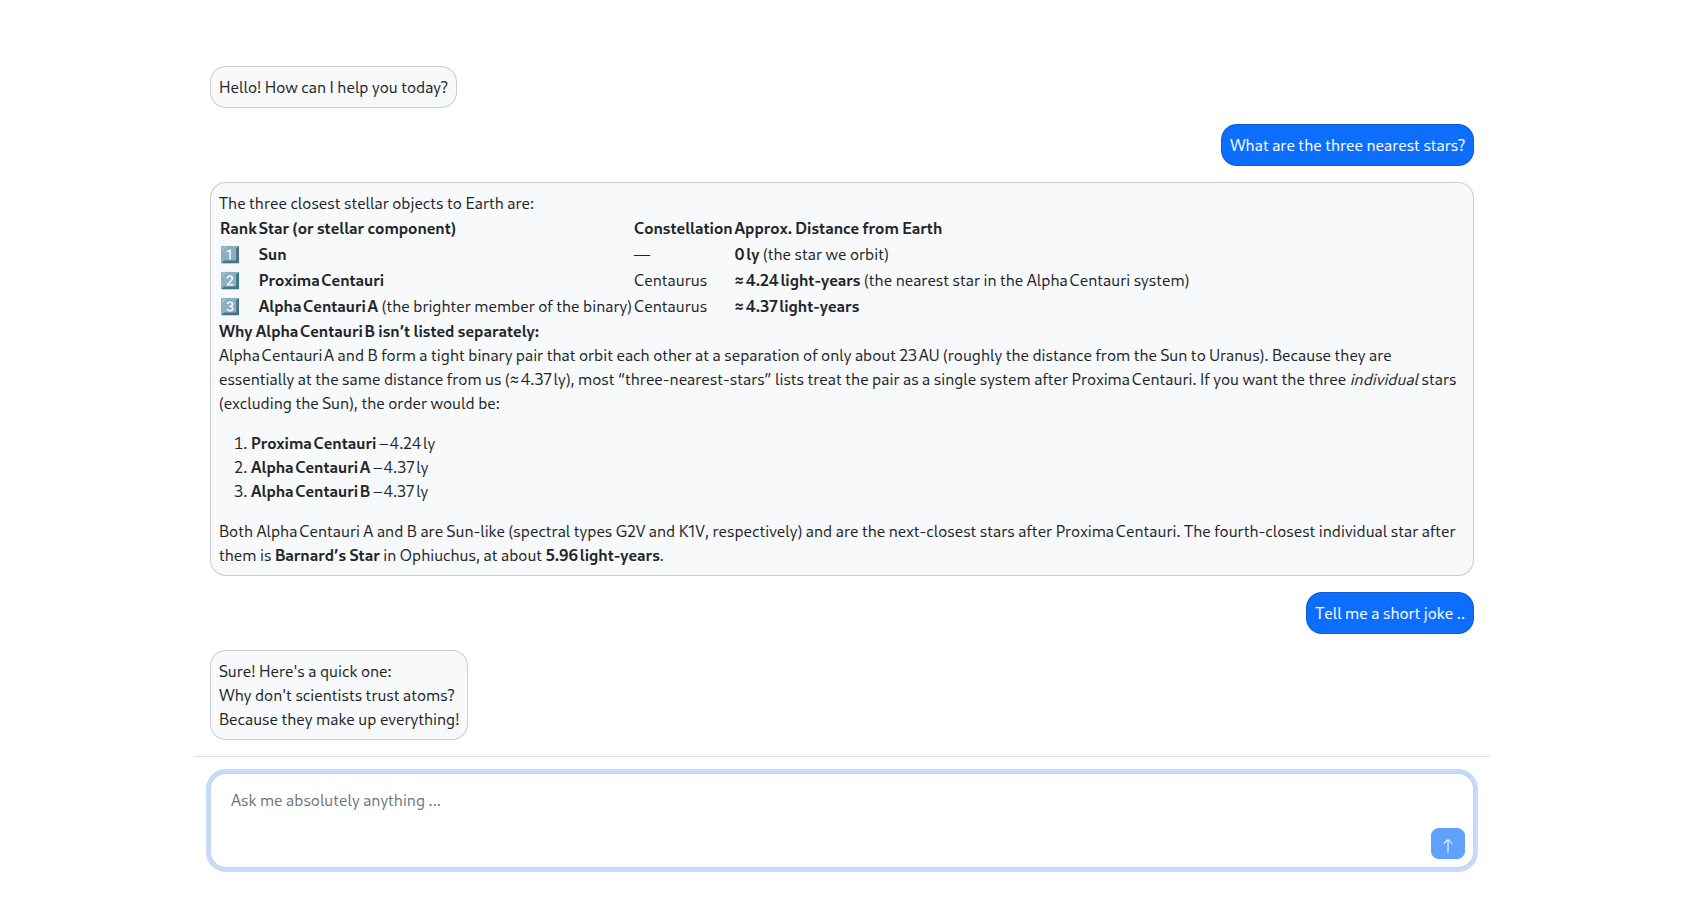
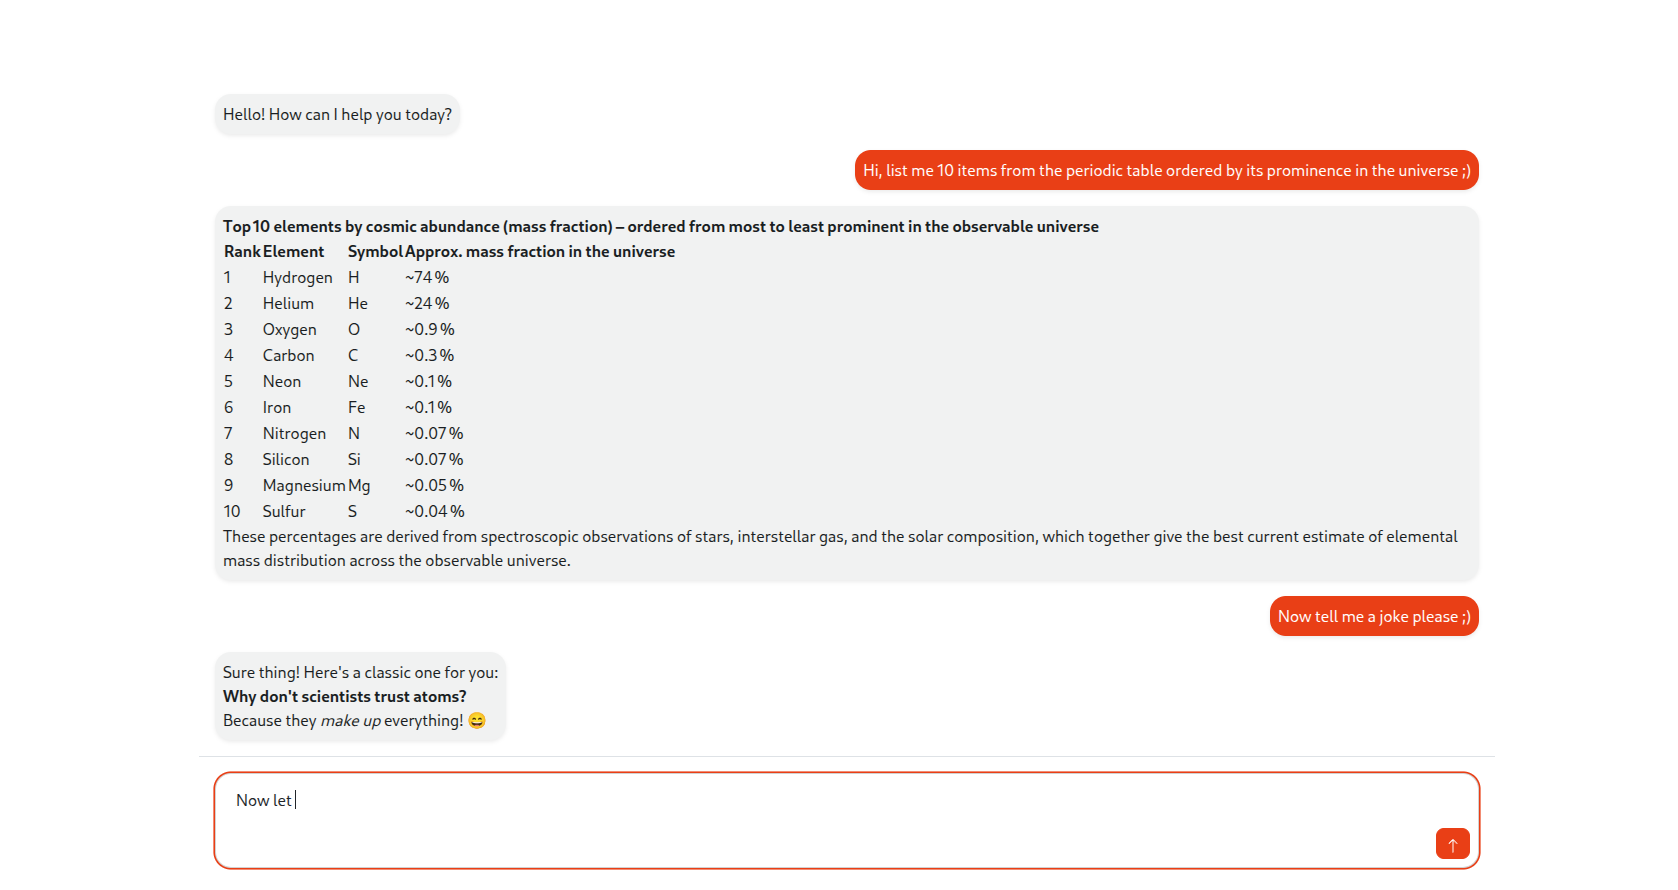
some additions to styles.css

diff --git a/llm_chat_client/src/styles.css b/llm_chat_client/src/styles.css
@@ -1,12 +1,28 @@
 /* You can add global styles to this file, and also import other style files */
+:root {
+    --bs-primary: #e93f16; /* Custom primary color */
+}
+
 .chat-input-card {
   transition: box-shadow 0.15s ease-in-out;
 
   &:focus-within {
-    box-shadow: 0 0 0 0.25rem rgba(13, 110, 253, 0.25) !important;
+    box-shadow: 0 0 0 0.1rem var(--bs-primary) !important;
   }
 
   .form-control:focus {
     box-shadow: none;
   }
+}
+
+
+/* Override buttons */
+.btn-primary {
+    background-color: var(--bs-primary) !important;
+    border-color: var(--bs-primary) !important;
+}
+
+/* For links and other elements that use primary color */
+a.btn-primary {
+    color: #ffffff !important; /* Optional: Change text color if needed */
 }

diff --git a/llm_chat_client/src/app/components/chat/chat.html b/llm_chat_client/src/app/components/chat/chat.html
@@ -14,10 +14,10 @@
       @for (message of messages(); track message.id) {
         <div class="d-flex mb-3" [class.justify-content-end]="message.sender === 'user'">
           <div
-            class="card rounded-4 message-card"
+            class="card rounded-4 border-0 shadow-sm"
             [ngClass]="{
-              'bg-primary text-white': message.sender === 'user',
-              'bg-light': message.sender === 'assistant'
+              'custom-user-card-colors text-white': message.sender === 'user',
+              'custom-assistant-card-colors': message.sender === 'assistant'
             }"
           >
             <div class="card-body p-2">

diff --git a/llm_chat_client/src/app/components/chat/chat.css b/llm_chat_client/src/app/components/chat/chat.css
@@ -25,3 +25,13 @@
 markdown ::ng-deep p {
     margin-bottom: 0 !important; /* Adds !important to override any existing styles */
 }
+
+.custom-assistant-card-colors {
+    background-color: #f1f2f2;
+    color:#1a1e23
+}
+
+.custom-user-card-colors {
+    background-color: #e93f16;
+    color:white;
+}
